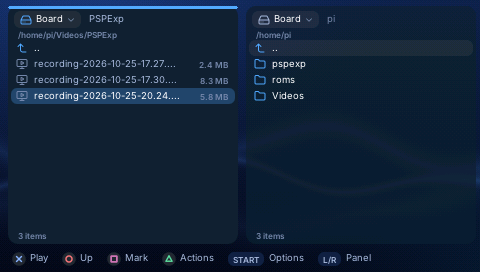
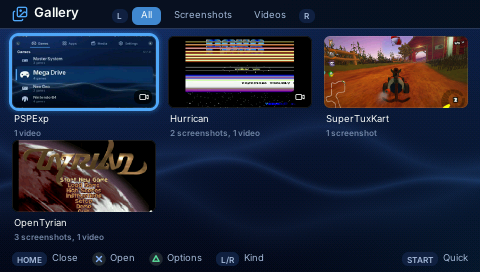
Release 1.4.0's notes, front page and screenshots.
CHANGELOG's section is 1.4.0 (2026-11-01), with its introduction. The
front page: New in 1.4.0 (the launcher, four more systems, Quick
controls, themes), the recording and PSP-games sections as they are now
(the Gallery, Settings > PSP, the PSP platform), the emulators' list,
84 and 66 packages, the FAQ's Settings > Update PSP and > PSP; its
gallery adds the launcher recorded on the PSP (launcher.gif), Game
details and Quick controls. Screenshots taken again on the PSP-1000 at
1:1 in Midnight: launcher-home, launcher-games, psp-section, packages
(its Emulators), record-saved (the Gallery); new game-details,
quick-controls, launcher.gif. The manual: Media > Gallery and Media
(not Apps), the Gallery's picture under its heading, 84 and 66 packages;
README's emulators. pspexp-pkg's PSPExp line says Update PSP. Site
built and looked at, 1280 and 390 wide.

Claude-Session: https://claude.ai/code/session_016ExLH4EBwMVt1mL5cwEARW

diff --git a/site/index.html b/site/index.html
@@ -10,7 +10,7 @@
       <p class="cta"><a class="button" href="download.html">Download</a>
       <a class="button ghost" href="manual/index.html">Read the manual</a></p>
     </div>
-    <figure class="psp"><img src="images/launcher-games.png" alt="The PSPExp launcher on the PSP: the Games shelf, with Cave Story highlighted" width="480" height="272"></figure>
+    <figure class="psp"><img src="images/launcher-games.png" alt="The PSPExp launcher on the PSP: Mega Drive's games with their box art, Streets of Rage 2 highlighted" width="480" height="272"></figure>
   </div>
 </section>
 
@@ -23,12 +23,13 @@
       <p>Press <b>♪ + L</b> to start a recording and again to stop it. A red dot in the corner tells you
       it is on. The board saves the video with its sound, ready to watch on the PSP or copy anywhere.</p>
       <p>It works in everything PSPExp runs, and in your own UMD and ISO games. Turn on Clips and
-      <b>♪ + R</b> saves the last 30 seconds, for the moment you did not plan.</p>
+      <b>♪ + R</b> saves the last 15, 30 or 60 seconds, for the moment you did not plan. Quick controls
+      (<b>START</b>) start, stop and save too, and the Gallery keeps it all, a page for each game.</p>
       <p><a href="manual/recording.html">Recording, step by step</a></p>
     </div>
     <div class="strip">
       <figure><img src="images/record-dot.png" alt="OpenTyrian on the PSP while recording: a small red dot in the bottom-right corner" loading="lazy" width="480" height="272"><figcaption>1. ♪ + L: Start recording (red dot)</figcaption></figure>
-      <figure><img src="images/record-saved.png" alt="PSPExp's file manager: the new recording in Videos/PSPExp on the board" loading="lazy" width="480" height="272"><figcaption>2. Saved on the board</figcaption></figure>
+      <figure><img src="images/record-saved.png" alt="The Gallery on the PSP: a tile for each game, with its latest picture and how many screenshots and videos it holds" loading="lazy" width="480" height="272"><figcaption>2. Saved on the board, in the Gallery</figcaption></figure>
       <figure class="wide"><video src="images/record-clip.mp4" poster="images/record-clip.jpg" width="480" height="272" autoplay muted loop playsinline aria-label="Six seconds of a recording of OpenTyrian, as the board saved it"></video><figcaption>3. A recording playback</figcaption></figure>
     </div>
   </div>
@@ -39,41 +40,42 @@
     <div>
       <h2>Play your own PSP games from the board</h2>
       <p>Put your PSP games (ISO, CSO or zipped) on the board, and they appear in the launcher's
-      <b>PSP</b> section with their own icons. Choose one and the PSP runs it itself, its disc read
+      <b>PSP</b> platform with their own icons, each in its disc. Choose one and the PSP runs it itself, its disc read
       from the board over the cable: no copying to the memory stick. Leave the game and PSPExp is back.</p>
       <p>They start as fast and play as they do from the memory stick; only a loading screen can take a
       moment longer. For PSPs with PRO custom firmware, with the PSPExp plugin switched on
-      (Settings &gt; This PSP).</p>
+      (Settings &gt; PSP).</p>
       <p><a href="manual/psp-games.html">Your PSP games, step by step</a></p>
     </div>
-    <figure class="shot"><img src="images/psp-section.png" alt="The launcher's home screen on the PSP, the PSP section in focus: 10 games" loading="lazy" width="480" height="272"><figcaption>The PSP section, first on the home screen</figcaption></figure>
+    <figure class="shot"><img src="images/psp-section.png" alt="The launcher's Games on the PSP, the PSP platform open: ten PSP games, each in its disc with its icon" loading="lazy" width="480" height="272"><figcaption>Your PSP games, each in its disc</figcaption></figure>
   </div>
 </section>
 
 <section class="wrap">
-  <h2>New in 1.3.0</h2>
+  <h2>New in 1.4.0</h2>
   <div class="cards">
-    <div class="card"><h3>Record what you play</h3><p>♪ + L records a video with its sound, in PSPExp and in your own
-      PSP games; with Clips on, ♪ + R saves the last 30 seconds.</p></div>
-    <div class="card"><h3>Your PSP games from the board</h3><p>ISO, CSO or zipped games in the new PSP section, run by
-      the PSP itself, with nothing copied to the memory stick.</p></div>
-    <div class="card"><h3>The PSPExp plugin, built in</h3><p>Update the PSP puts it on the memory stick and Settings &gt;
-      This PSP switches it on: nothing to edit by hand.</p></div>
-    <div class="card"><h3>Updates that finish themselves</h3><p>Update the PSP now restarts PSPExp on the new version
-      by itself, and a dropped link in a PSP game reconnects.</p></div>
+    <div class="card"><h3>A new launcher</h3><p>Games, Apps, Media and Settings on L and R; each platform with its
+      box art, in a list or a grid; Game details with each game's story, year and maker.</p></div>
+    <div class="card"><h3>Four more systems</h3><p>Sega CD, 32X, PC Engine and Neo Geo, on the Raspberry Pi
+      and the GameShell alike, at full speed. Bring your own ROMs and BIOS.</p></div>
+    <div class="card"><h3>Quick controls</h3><p>START, from anywhere: record, save a clip, notifications, the
+      terminal, Wi-Fi, sound and battery at a glance, restart and power off.</p></div>
+    <div class="card"><h3>Themes</h3><p>Midnight, Crimson, Emerald, Violet, Amber or Graphite, on every screen,
+      the PSP's own pictures too, in Settings &gt; PSP &gt; Theme.</p></div>
   </div>
-  <p class="note"><a href="https://github.com/pleft/PSPExp/blob/main/CHANGELOG.md">Everything new in 1.3.0</a></p>
+  <p class="note"><a href="https://github.com/pleft/PSPExp/blob/main/CHANGELOG.md">Everything new in 1.4.0</a></p>
 </section>
 
 <section class="wrap">
   <h2>What you get on the PSP</h2>
   <div class="cards">
-    <div class="card"><h3>A launcher made for it</h3><p>Games, emulators, apps and settings, with covers,
-      favourites, search and notifications, all on the PSP's buttons.</p></div>
+    <div class="card"><h3>A launcher made for it</h3><p>Games, apps, media and settings, with box art,
+      game descriptions, favourites, search, themes and notifications, all on the PSP's buttons.</p></div>
     <div class="card"><h3>Games, installed from the PSP</h3><p>Freedoom, Quake, Celeste 64, Unreal Tournament,
       Sonic Robo Blast 2, Cave Story, OpenTTD, Red Alert, SuperTux and dozens more, in two presses.</p></div>
-    <div class="card"><h3>Emulators</h3><p>NES, SNES, Mega Drive, Game Boy, Game Boy Advance, Lynx, WonderSwan
-      and, on a Raspberry Pi, the Nintendo 64, the Dreamcast, the Nintendo DS and the Sega Saturn. Bring your own ROMs.</p></div>
+    <div class="card"><h3>Emulators</h3><p>NES, SNES, Mega Drive, Master System, Game Gear, Sega CD, 32X, PC Engine,
+      Neo Geo, Game Boy, Game Boy Advance, Lynx, WonderSwan and, on a Raspberry Pi, the Nintendo 64, the Dreamcast,
+      the Nintendo DS and the Sega Saturn. Bring your own ROMs.</p></div>
     <div class="card"><h3>Apps and headphones</h3><p>A player for music and films (also from your media server), a file manager with the PSP's memory stick and archives,
       a system monitor, a Linux terminal, and Bluetooth headphones.</p></div>
   </div>
@@ -81,8 +83,11 @@
 
 <section class="wrap">
   <div class="gallery">
-    <figure><img src="images/launcher-home.png" alt="The launcher's home screen" loading="lazy" width="480" height="272"><figcaption>The launcher's home</figcaption></figure>
-    <figure><img src="images/packages.png" alt="The Packages app" loading="lazy" width="480" height="272"><figcaption>Packages: install from the PSP</figcaption></figure>
+    <figure><img src="images/launcher.gif" alt="The launcher on the PSP, recorded on it: the platforms, Mega Drive's games in a list and a grid, the categories, Quick controls" loading="lazy" width="480" height="272"><figcaption>The launcher, recorded on the PSP</figcaption></figure>
+    <figure><img src="images/game-details.png" alt="Game details on the PSP: Streets of Rage 2, its box art, maker, year, genre and story" loading="lazy" width="480" height="272"><figcaption>Game details, with each game's story</figcaption></figure>
+    <figure><img src="images/launcher-home.png" alt="The launcher's Games on the PSP: the list of your platforms, Super Nintendo highlighted" loading="lazy" width="480" height="272"><figcaption>Your platforms</figcaption></figure>
+    <figure><img src="images/quick-controls.png" alt="Quick controls on the PSP: recording, clips, notifications, the terminal, the link, network and sound" loading="lazy" width="480" height="272"><figcaption>Quick controls, on START</figcaption></figure>
+    <figure><img src="images/packages.png" alt="The Packages app on the PSP: the emulators, installed" loading="lazy" width="480" height="272"><figcaption>Packages: install from the PSP</figcaption></figure>
     <figure><img src="images/celeste64.png" alt="Celeste 64 on the PSP" loading="lazy" width="480" height="272"><figcaption>Celeste 64, drawn by a Raspberry Pi</figcaption></figure>
     <figure><img src="images/supertuxkart.png" alt="SuperTuxKart on the PSP" loading="lazy" width="480" height="272"><figcaption>SuperTuxKart</figcaption></figure>
   </div>
@@ -113,8 +118,8 @@
   <div class="table"><table>
     <thead><tr><th>Board</th><th>Games</th><th>Setting up</th></tr></thead>
     <tbody>
-      <tr><td><b>Raspberry Pi</b> 3 / 4 / 400 / 5</td><td><a href="games.html">all 82 packages</a>, 3D and the Pi's GPU included</td><td>write the card image</td></tr>
-      <tr><td><b>ClockworkPi GameShell</b></td><td><a href="games.html">64 packages</a>: a pocket pair with the PSP</td><td>write the card image</td></tr>
+      <tr><td><b>Raspberry Pi</b> 3 / 4 / 400 / 5</td><td><a href="games.html">all 84 packages</a>, 3D and the Pi's GPU included</td><td>write the card image</td></tr>
+      <tr><td><b>ClockworkPi GameShell</b></td><td><a href="games.html">66 packages</a>: a pocket pair with the PSP</td><td>write the card image</td></tr>
       <tr><td><b>Onion Omega2+</b></td><td>12: 2D games and emulators</td><td>for tinkerers: built from the repository</td></tr>
     </tbody>
   </table></div>
@@ -145,9 +150,9 @@
   <details><summary>Does the board need a screen or keyboard?</summary><p>No. The PSP is its screen and controller;
     Wi-Fi, the time zone and updates are set from the PSP.</p></details>
   <details><summary>How does it update?</summary><p>The launcher tells you when a new PSPExp is out; Packages installs it,
-    and Settings &gt; Update the PSP puts the PSP's part up to date.</p></details>
+    and Settings &gt; Update PSP puts the PSP's part up to date.</p></details>
   <details><summary>Can it record what I play?</summary><p>Yes: ♪ + L starts and stops a recording, and the board keeps the video.
-    It works in PSPExp's games and in your own UMD and ISO games; for those, switch on the PSPExp plugin in Settings &gt; This PSP
+    It works in PSPExp's games and in your own UMD and ISO games; for those, switch on the PSPExp plugin in Settings &gt; PSP
     (PRO custom firmware). <a href="manual/recording.html">Recording, step by step</a></p></details>
   <details><summary>Is it made by Sony?</summary><p>No. PSPExp is an independent open-source project, not affiliated
     with Sony; "PSP" names the console it runs on.</p></details>

diff --git a/docs/manual/using-pspexp.md b/docs/manual/using-pspexp.md
@@ -286,7 +286,7 @@ first. A zipped ROM still goes straight to its emulator.
 
 ## Media
 
-**Apps > Media** plays the music and the films on your board, your USB
+**Media** (the category, on L / R) plays the music and the films on your board, your USB
 sticks and the PSP's memory stick, and your captures. Cross on a song or a
 film in **Files** opens it here too. It has three tabs; **L / R** go from
 one to the next. It opens on **Now playing** while something plays, else on
@@ -319,7 +319,7 @@ the **Library**:
 | ♪ (note) | pause / play, from anywhere |
 
 The music goes on while you use the launcher, Files or the other apps;
-**Apps > Media** brings it back. In
+**Media > Now playing** brings it back. In
 **Files** the song playing has a note beside it and its title shows at the
 foot of the panel; cross on it (or triangle > Folder and view > Media) brings Media back
 without starting the song over. Files' triangle menu has **Add to the
@@ -358,7 +358,7 @@ look as it arranges them.
 
 ## Gallery
 
-**Apps > Gallery** shows your screenshots, recordings and clips, a tile for
+**Media > Gallery** shows your screenshots, recordings and clips, a tile for
 each game, then a game's pictures newest first. Cross shows a screenshot
 full screen or plays a video; L / R show all, only the screenshots or only
 the videos; triangle's Options delete them or copy them to the PSP's memory
@@ -434,7 +434,7 @@ PSPExp, it comes first, under **Ready**.
 |---|---|
 | Network | Wi-Fi network: join a network (an on-screen keyboard for the password); on the GameShell also PSP direct |
 | Sound | the PSP or Bluetooth headphones (boards with Bluetooth) |
-| Recording | Clips: ♪ + R saves the last 30 seconds, the board then recording all the time (off at first; ♪ + L recordings work either way); Clip length: 15, 30 or 60 seconds; Quality: High, Standard or Small, for the videos' size ([Recording](recording.md); what they made is in Apps > Gallery) |
+| Recording | Clips: ♪ + R saves the last 30 seconds, the board then recording all the time (off at first; ♪ + L recordings work either way); Clip length: 15, 30 or 60 seconds; Quality: High, Standard or Small, for the videos' size ([Recording](recording.md); what they made is in Media > Gallery) |
 | Clock | Time zone, for the clock |
 | Library | Refresh library: look for new games and ROMs now; Box art: download covers for ROMs, on or off |
 | PSP | PSPExp plugin: on to start the PSP list's games and record your own PSP games ([the plugin](plugin.md)); PSP clock: let the board set the PSP's clock (after its time zone changes, restart the PSP for the dates of files it writes to follow); Theme: the colours of every screen, Midnight (the blue), Crimson, Emerald, Violet, Amber or Graphite, each shown as you move to it (cross keeps it, circle leaves the one you had) |

diff --git a/README.md b/README.md
@@ -6,7 +6,7 @@ runs the games; the PSP does what it is good at, drawing them with its own
 graphics chip, playing their sound and taking your input. Together they play
 games the PSP never had, and even a tiny board keeps up.
 
-<p align="center"><img src="docs/images/launcher-games.png" width="640" alt="The PSPExp launcher on the PSP: the Games shelf, with Cave Story highlighted"></p>
+<p align="center"><img src="docs/images/launcher-games.png" width="640" alt="The PSPExp launcher on the PSP: Mega Drive's games with their box art, Streets of Rage 2 highlighted"></p>
 
 <p align="center"><a href="https://youtu.be/CQm_w-4Oqfw">▶ Watch the demo</a>: the PSP with a Raspberry Pi 400 and a ClockworkPi GameShell, in 80 seconds.<br><a href="https://youtu.be/_rBYBBLUeNc">▶ Part II: the games</a>: Super Mario 64, Unreal Tournament, Celeste 64 and more on the PSP-1000.<br><a href="https://youtu.be/ex6nnDBRzHU">▶ Dreamcast on the PSP</a>: Power Stone 2, Sega Rally 2 and Sonic Adventure 2.</p>
 
@@ -19,8 +19,9 @@ What you get on the PSP:
   Sonic Robo Blast 2, Cave Story, OpenTTD, Red Alert, Warcraft I
   and II and Morrowind (with your own copy's data), SuperTux, and
   [dozens more](docs/manual/raspberry-pi.md#what-it-plays-like).
-- **Emulators**: NES, SNES, Mega Drive, Game Boy (Color, Advance), Lynx,
-  WonderSwan and, on a Pi, the Nintendo 64, the Dreamcast, the Nintendo DS and the Sega Saturn. Bring your own ROMs.
+- **Emulators**: NES, SNES, Mega Drive (with Master System, Game Gear, Sega CD and 32X),
+  PC Engine, Neo Geo, Game Boy (Color, Advance), Lynx, WonderSwan and, on a Pi, the
+  Nintendo 64, the Dreamcast, the Nintendo DS and the Sega Saturn. Bring your own ROMs.
 - **A media player for music and films, a file manager and a Linux terminal**, plus Bluetooth
   headphones on boards that have Bluetooth.
 - **Your PSP games, kept on the board**: ISO, CSO or zipped games in the

diff --git a/docs/manual/README.md b/docs/manual/README.md
@@ -36,7 +36,7 @@ it uses a small kernel driver for the USB link.
 | | Raspberry Pi | ClockworkPi GameShell | Onion Omega2+ |
 |---|---|---|---|
 | Best for | the most games, the smoothest play | a handheld pair: the PSP on top of a pocket console | the smallest, cheapest setup |
-| Games | all 82 packages, OpenGL and 3D games (Quake, OpenArena) included, and the ones drawn by the Pi's own graphics chip (SuperTuxKart, Celeste 64, Nintendo 64, Dreamcast, Saturn, Morrowind, Unreal Tournament and more) | 64 packages: not the twelve drawn by the Pi's graphics chip, nor Diablo, Wolfenstein: Enemy Territory, Heroes II, LinCity-NG and C-Dogs; heavy 3D slower | 12 packages: Doom, OpenTyrian, Cave Story, Jazz Jackrabbit, the adventures, NES, Game Boy, SNES, Mega Drive |
+| Games | all 84 packages, OpenGL and 3D games (Quake, OpenArena) included, and the ones drawn by the Pi's own graphics chip (SuperTuxKart, Celeste 64, Nintendo 64, Dreamcast, Saturn, Morrowind, Unreal Tournament and more) | 66 packages: not the twelve drawn by the Pi's graphics chip, nor Diablo, Wolfenstein: Enemy Territory, Heroes II, LinCity-NG and C-Dogs; heavy 3D slower | 12 packages: Doom, OpenTyrian, Cave Story, Jazz Jackrabbit, the adventures, NES, Game Boy, SNES, Mega Drive |
 | Bluetooth headphones | yes (Pi 400 tested) | yes (tried with earbuds) | no |
 | Setting up | flash a card image (or add PSPExp to Raspberry Pi OS) | flash a card image | build and install from a computer (for tinkerers, for now) |
 | Guide | [Raspberry Pi](raspberry-pi.md) | [GameShell](gameshell.md) | [Omega2+](omega2.md) |

diff --git a/CHANGELOG.md b/CHANGELOG.md
@@ -1,6 +1,13 @@
 # Release notes
 
-## Since 1.3.0
+## 1.4.0 (2026-11-01)
+
+A new launcher, four more systems and Quick controls: Games, Apps, Media and
+Settings on L and R, every platform with its box art and each game's story;
+Sega CD, 32X, PC Engine and Neo Geo; START for recording, clips and the
+board's state from anywhere; and themes. New card images for the Raspberry Pi
+and the GameShell have all of it in; a board already set up gets the same
+through Apps > Packages, then Settings > Update PSP for the PSP's part.
 
 - **A new launcher**, XMB-like: four categories along the top, **Games**,
   **Apps**, **Media** and **Settings**, that **L / R** move between from
@@ -108,7 +115,7 @@
   go to `Gallery` in the board's home folder, in a folder named after the
   game (a PSP game's own title, the launcher's name for PSPExp's games).
   Videos from before, in `Videos/PSPExp`, move once into `Gallery/Earlier`.
-  **Apps > Gallery** shows them: the
+  **Media > Gallery** shows them: the
   games, each with its latest picture, then a game's pictures newest first,
   a video's length on it; L / R show all, the screenshots or the videos.
   Cross shows a screenshot full screen (left / right the next) or plays a

diff --git a/docs/manual/gameshell.md b/docs/manual/gameshell.md
@@ -40,8 +40,8 @@ Everything else happens on the PSP: **Apps > Packages** to install games.
 **Apps > Packages**: Freedoom, OpenTyrian, Cave Story, SuperTux, the
 Revolution adventures, the emulators and more. Each appears under
 **Games** (or as its system's tile) once installed. The card image comes
-with none, so you choose what takes space. Packages offers the GameShell 64
-of PSPExp's 82 packages: not the twelve drawn by a Raspberry Pi's graphics
+with none, so you choose what takes space. Packages offers the GameShell 66
+of PSPExp's 84 packages: not the twelve drawn by a Raspberry Pi's graphics
 chip (SuperTuxKart, Celeste 64, Nintendo 64, Dreamcast, Sega Saturn, Morrowind, Unreal Tournament,
 Luanti, Trackballs, Open Surge, OpenRA's Red Alert,
 Taisei: its own chip is too small for them),

diff --git a/docs/manual/recording.md b/docs/manual/recording.md
@@ -52,11 +52,11 @@ Videos made before this version, in **Videos/PSPExp**, are moved once into
 **Gallery/Earlier** (and a **Captures** folder of the first test versions
 into **Gallery**).
 
-![The new recording in Files, on the board](../images/record-saved.png)
-
 ## The Gallery
 
-**Apps > Gallery** shows what you
+![The Gallery: a tile for each game, with its latest picture and what it holds](../images/record-saved.png)
+
+**Media > Gallery** shows what you
 captured. Its first page has a tile for each game, with its latest picture
 and how many screenshots and videos it holds; cross opens a game, with its
 pictures newest first, four to a row. A video shows its length in the
